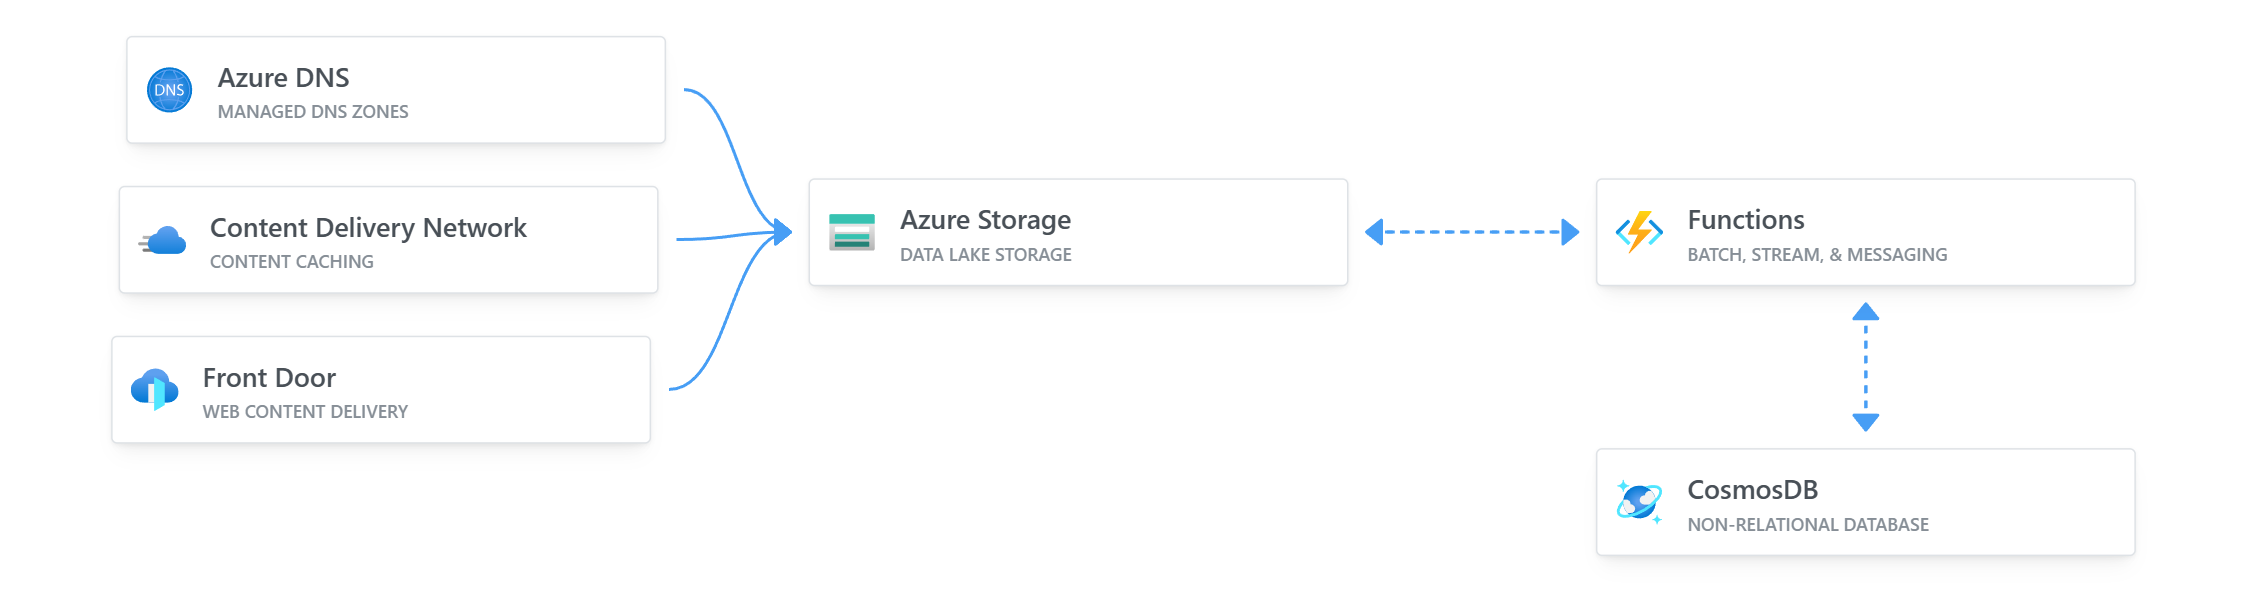
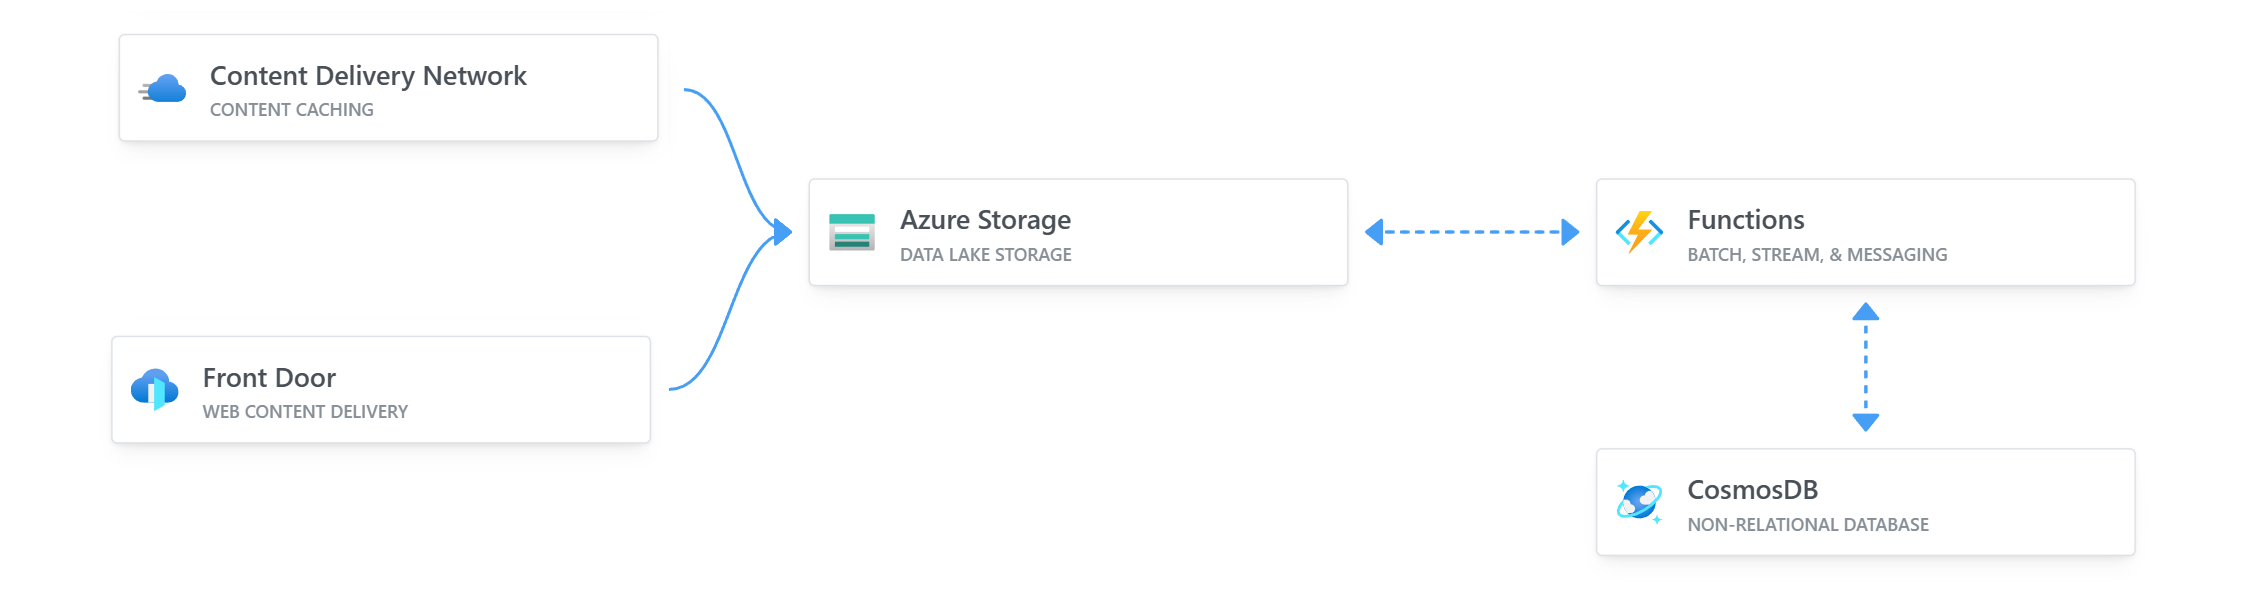
README-UPDATED

Changed region(s): [[0.0623, 0.0912, 0.2492, 0.2128], [0.0623, 0.3649, 0.2492, 0.4561], [0.3115, 0.3953, 0.3427, 0.4257]]

diff --git a/README.md b/README.md
@@ -8,21 +8,7 @@ If you'd like to build your own, here is the YouTube video [video](https://youtu
 
 ## Demo
 
-[View it live here(https://www.satishverma.cloud/)
-
-## Pre-requisites
-
-I leverage [Dev Containers](https://code.visualstudio.com/docs/remote/containers) for my development environment. If you'd like to use it, you'll need to install [Docker](https://www.docker.com/products/docker-desktop) and the [Dev Containers](https://marketplace.visualstudio.com/items?itemName=ms-vscode-remote.remote-containers) for VS Code.
-
-Once installed:
-
-1. Make sure Docker is running.
-2. Open the project in VS Code.
-3. Ctrl/Cmd + Shift + P to open the command palette.
-4. Type "Reopen in Container" and select:
-    - [`.NET API`](.devcontainer/api/devcontainer.json) container is for working with Azure Functions backend.
-    - [`JS Frontend`](.devcontainer/frontend/devcontainer.json) container is for working with the frontend.
-5. VS Code will reload and you'll be in the container.
+View it live here(https://www.satishverma.cloud/)
 
 ## Structure
 
@@ -31,8 +17,69 @@ Once installed:
 - `api/`: Folder contains the dotnet API deployed on Azure Functions.
     - `Counter.cs`: Contains the visitor counter code.
 - `.github/workflows/`: Folder contains CI/CD workflow configurations.
-- `.devcontainer`: Folder contains the my container configuration for VS Code.
 
+EVERYTHING IS PRE-CONFIGURED-GIT REPO.
+## Resume hostimg on Azure Cloud Resources.
+In this Project, Deploying a Resumes in the form of Websites and for hosting, using Azure Cloud Resources.
+### Azure Resource Created
+
+1. Azure Function app 
+2. Azure CosmosDB
+3. Azure Stoarge Account(Static website hosting)
+4. Azure Front Door and CDN
+5. [WWW.SATISHVERMA.CLOUD](htttp://www.satishverma.cloud)
+
+## Process
+
+### Cloud init.txt
+
+1. Modify and save the website template according to Resume. Use link to clone the repo
+
+```bash
+#  Original Git Repo of Resume.
+
+ git clone https://github.com/madebygps/azure-resume.git
+
+```
+
+```bash
+# My Git Repo of Resume.
+
+ git clone https://github.com/satishvermacoen/Azure-Cloud-Resume.git
+
+```
+
+2. Create and configure azure resource.
+-----------------
+- Azure CosmosDB
+- Azure Function app 
+- Azure Stoarge Account(Static website hosting)
+-----------------
+### Azure CosmosDB
+
+![App Screenshot](/img/6.png)
+
+### Azure Function app
+
+![App Screenshot](/img/3.png)
+
+### Azure Stoarge Account(Static website hosting)
+
+![App Screenshot](/img/1.png)
+![App Screenshot](/img/2.png)
+
+3. Azure CDN Configuration for Domain forwarding .
+
+![App Screenshot](/img/7.png)
+![App Screenshot](/img/5.png)
+
+4. Some minnor changes check out [video](https://www.youtube.com/watch?v=ieYrBWmkfno&t=4041s) for it 
+
+## IT'S LIVE-[WWW.SATISHVERMA.CLOUD](htttp://www.satishverma.cloud)
+
+## Done for this.
+-----------------------------------
+Refercence
 ## Frontend resources
 
 The front-end is a static site with HTML, CSS, and JavaScript. It's static and has a visitor counter. The visitor counter data fetched via an API call to an Azure Function.
